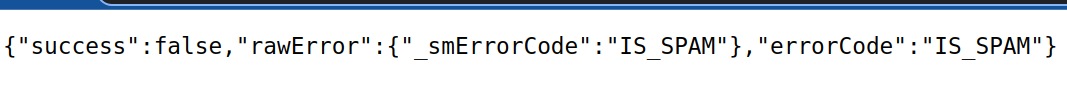
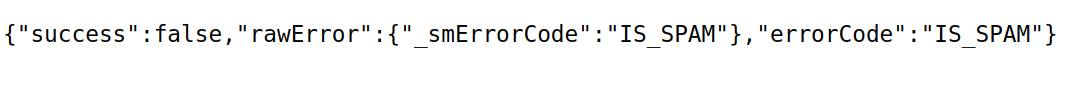
Added larger version of akismet error image

diff --git a/pages/twisty-litttle-passages-static-page-comments.html b/pages/twisty-litttle-passages-static-page-comments.html
@@ -91,7 +91,7 @@
       <p>The main thing I'm not happy with, aside from my ugly Javascript and the delay in displaying new comments, is the fact that I could not for the life of me figure out how to prevent the redirect to the Akismet "spam detected" message when you post something about a certain medication. I appreciate a good json error message in a web application as much as the next person, but it looks sloppy.</p>
     
       <figure class="figure">
-  <img src="https://clairempr.github.io/images/akismet_spam_error.png" class="figure-img img-fluid" width="750" alt='Spam error'>
+  <img src="https://clairempr.github.io/images/akismet_spam_error.png" class="figure-img img-fluid" width="775" alt='Spam error'>
   <figcaption class="figure-caption">Akismet spam error message</figcaption>
 </figure>
     

diff --git a/blog/templates/blog/blog_to_generate/index.html b/blog/templates/blog/blog_to_generate/index.html
@@ -19,7 +19,7 @@
 
 {% block main %}
   <div class="divider">&#10086;&nbsp;&#10086;&nbsp;&#10086;</div>
-  
+
   <div class="mt-3 mb-5">
     <ul class="stories-list text-justified">
       {% for filename, title, date_posted in stories %}

diff --git a/index.html b/index.html
@@ -39,7 +39,7 @@
     <main>
       
   <div class="divider">&#10086;&nbsp;&#10086;&nbsp;&#10086;</div>
-  
+
   <div class="mt-3 mb-5">
     <ul class="stories-list text-justified">
       

diff --git a/blog/input/pages/twisty-litttle-passages-static-page-comments.md b/blog/input/pages/twisty-litttle-passages-static-page-comments.md
@@ -28,7 +28,7 @@ It wasn't pretty, the process of getting a new comment to display on the page is
 
 The main thing I'm not happy with, aside from my ugly Javascript and the delay in displaying new comments, is the fact that I could not for the life of me figure out how to prevent the redirect to the Akismet "spam detected" message when you post something about a certain medication. I appreciate a good json error message in a web application as much as the next person, but it looks sloppy.  
 
-![Spam error](https://clairempr.github.io/images/akismet_spam_error.png width="750" 'Akismet spam error message')
+![Spam error](https://clairempr.github.io/images/akismet_spam_error.png width="775" 'Akismet spam error message')
 
 So there you have it, unless I've forgotten a step already. Getting comments onto this quick and dirty blog page involved a journey along some really twisty little passages, and if anyone has a more elegant solution, I'd be glad to hear it.  
 as 
